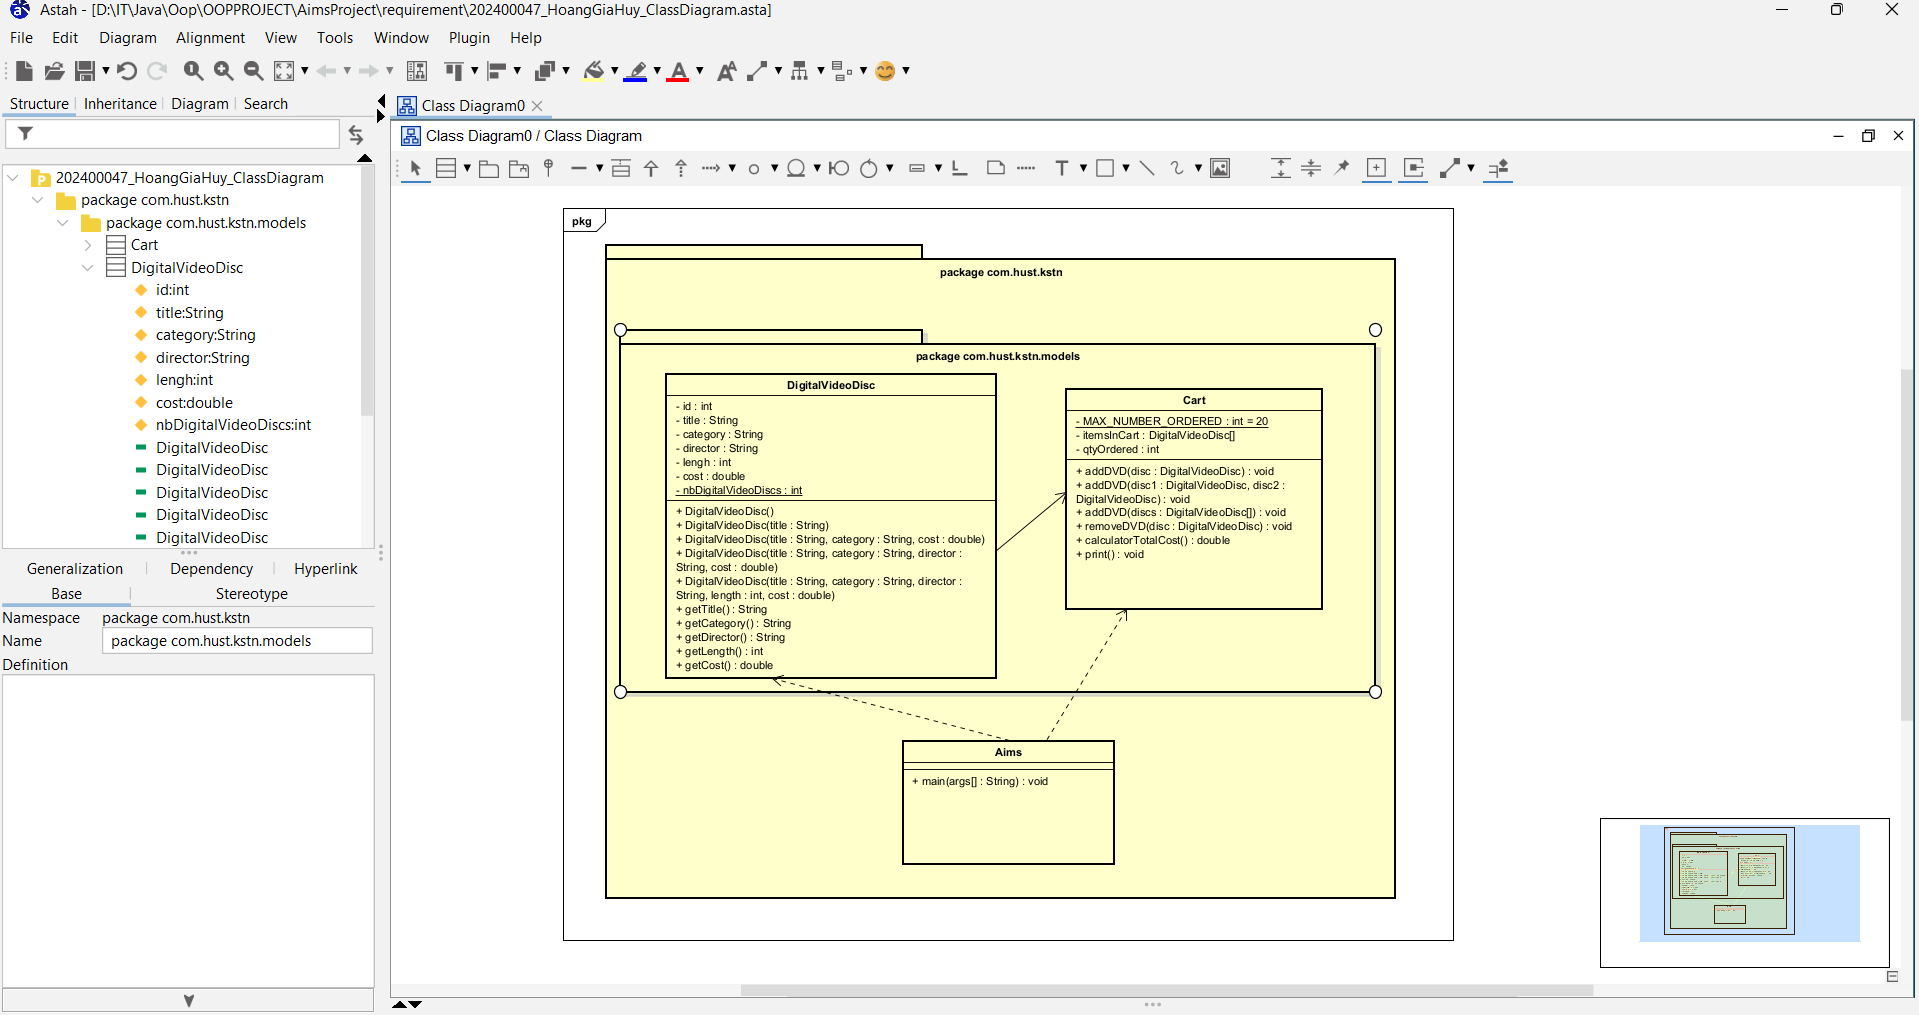
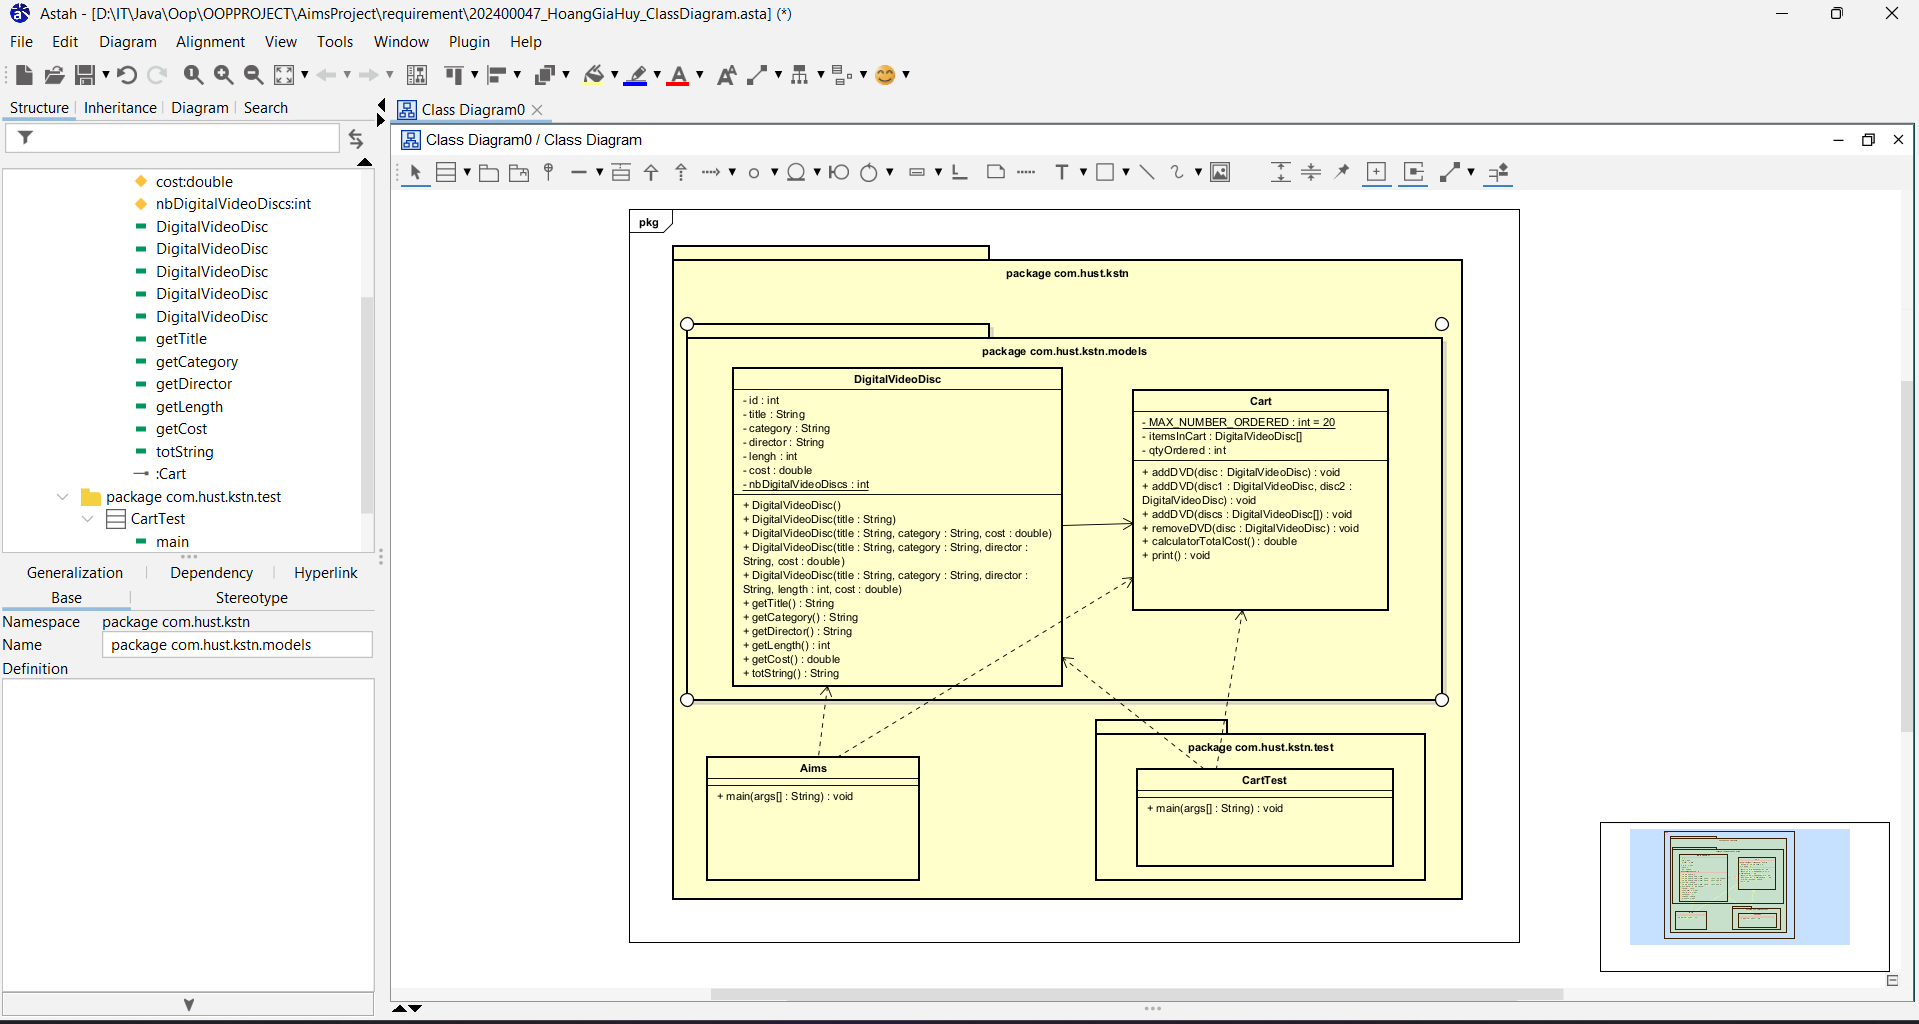
override toString and add CartTest

diff --git a/AimsProject/src/com/hust/kstn/test/CartTest.java b/AimsProject/src/com/hust/kstn/test/CartTest.java
@@ -1,0 +1,43 @@
+package com.hust.kstn.test;
+
+import com.hust.kstn.models.Cart;
+import com.hust.kstn.models.DigitalVideoDisc;
+
+public class CartTest {
+    public static void main(String[] args) {
+        Cart cart = new Cart();
+
+        DigitalVideoDisc dvd1 = new DigitalVideoDisc("The Lion King", "Animation",
+                "Roger Allers", 87, 19.95);
+        DigitalVideoDisc dvd2 = new DigitalVideoDisc("Star Wars", "Science Fiction",
+                "Geogle Lucas", 87, 24.45);
+        DigitalVideoDisc dvd3 = new DigitalVideoDisc("Without Family", "Animation",
+                "Hector Malot", 87, 21.1);
+
+        DigitalVideoDisc[] discs = new DigitalVideoDisc[3];
+        discs[0] = dvd1;
+        discs[1] = dvd2;
+        discs[2] = dvd3;
+
+        cart.removeDVD(dvd1); //Khong xoa duoc khi gio hang rong
+        System.out.println();
+
+        cart.addDVD(dvd1); //add 1
+        System.out.println();
+
+        cart.removeDVD(dvd2); //Khong xoa duoc dvd khong ton tai
+        System.out.println();
+
+        cart.addDVD(dvd2,dvd3); //add 2
+        cart.print();
+        System.out.println("Total cost: " + cart.calculatorTotalCost());
+        System.out.println();
+
+        cart.addDVD(discs); //add mang
+        cart.print();
+        System.out.println();
+        for(int i = 0; i < 5; i++) {
+            cart.addDVD(discs);
+        }//gio hang day
+    }
+}

diff --git a/AimsProject/src/com/hust/kstn/Aims.java b/AimsProject/src/com/hust/kstn/Aims.java
@@ -6,33 +6,6 @@ import com.hust.kstn.models.DigitalVideoDisc;
 public class Aims {
 
     public static void main(String[] args) {
-        Cart cart = new Cart();
 
-        DigitalVideoDisc dvd1 = new DigitalVideoDisc("The Lion King", "Animation",
-                "Roger Allers", 87, 19.95);
-
-        DigitalVideoDisc dvd2 = new DigitalVideoDisc("Star Wars", "Science Fiction",
-                "Geogle Lucas", 87, 24.45);
-
-        cart.addDVD(dvd1);
-        cart.print();
-        System.out.println("Total cost: " + cart.calculatorTotalCost());
-
-        System.out.println();
-
-        cart.addDVD(dvd2);
-        cart.print();
-        System.out.println("Total cost: " + cart.calculatorTotalCost());
-
-        System.out.println();
-
-        cart.removeDVD(dvd2);
-        cart.removeDVD(dvd1);
-        cart.print();
-
-        System.out.println();
-
-        cart.addDVD(dvd1, dvd2);
-        cart.print();
     }
 }

diff --git a/AimsProject/src/com/hust/kstn/models/DigitalVideoDisc.java b/AimsProject/src/com/hust/kstn/models/DigitalVideoDisc.java
@@ -66,4 +66,14 @@ public class DigitalVideoDisc {
         this.length = length;
         this.cost = cost;
     }
+
+    @Override
+    public String toString() {
+        return "- DVD" + "[" + this.id + "]"
+                + " - [" + this.title + "]"
+                + " - [" + this.cost + "]"
+                + " - [" + this.director + "]"
+                + " - [" + this.length + "]"
+                + " - [" + this.category + "]";
+    }
 }

diff --git a/AimsProject/src/com/hust/kstn/models/Cart.java b/AimsProject/src/com/hust/kstn/models/Cart.java
@@ -79,8 +79,7 @@ public class Cart {
         System.out.println("=== Total items in cart: " + qtyOrdered + " ===");
         System.out.println("=== All items in cart ===");
         for(int i = 0; i < qtyOrdered; i++) {
-            System.out.println("[Title]: " + itemsInCart[i].getTitle() + ", "
-                    + "[Cost]: " + itemsInCart[i].getCost());
+            System.out.println(itemsInCart[i].toString());
         }
     }
 
